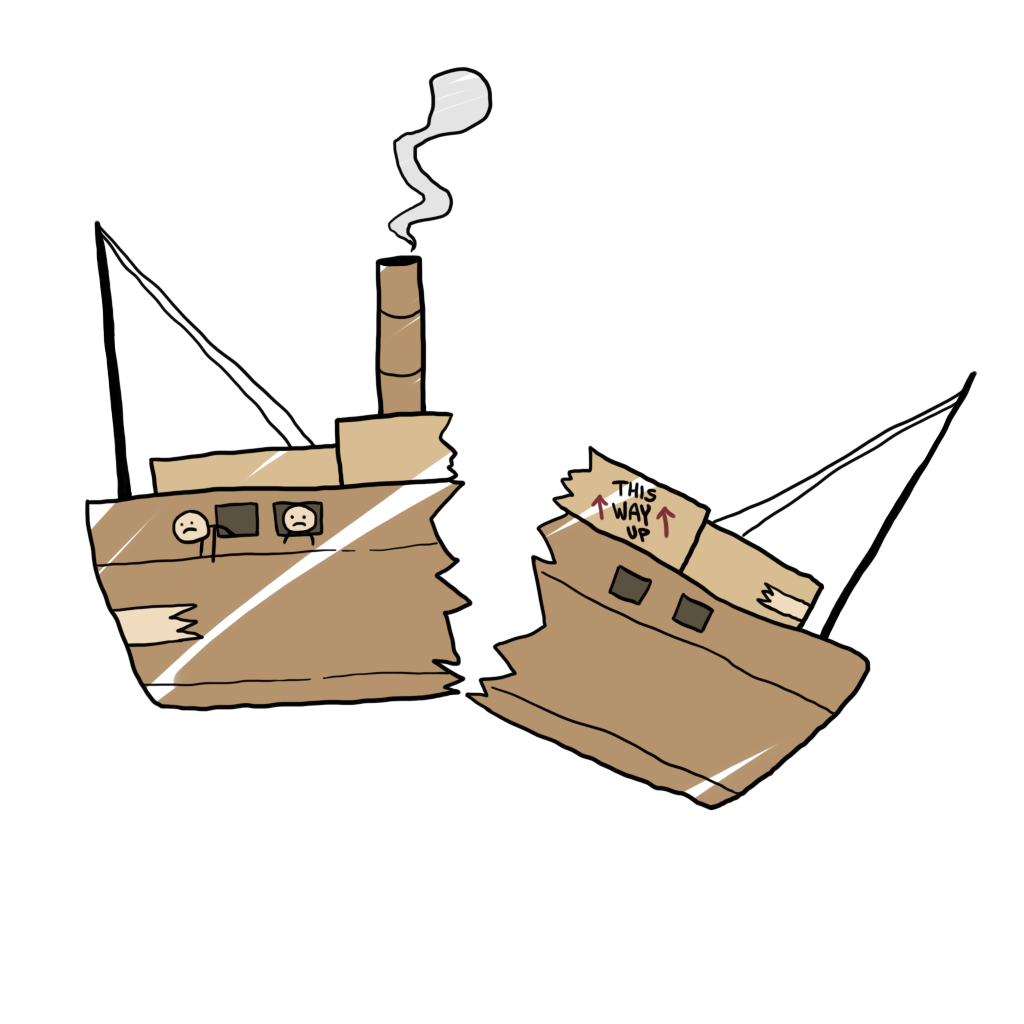
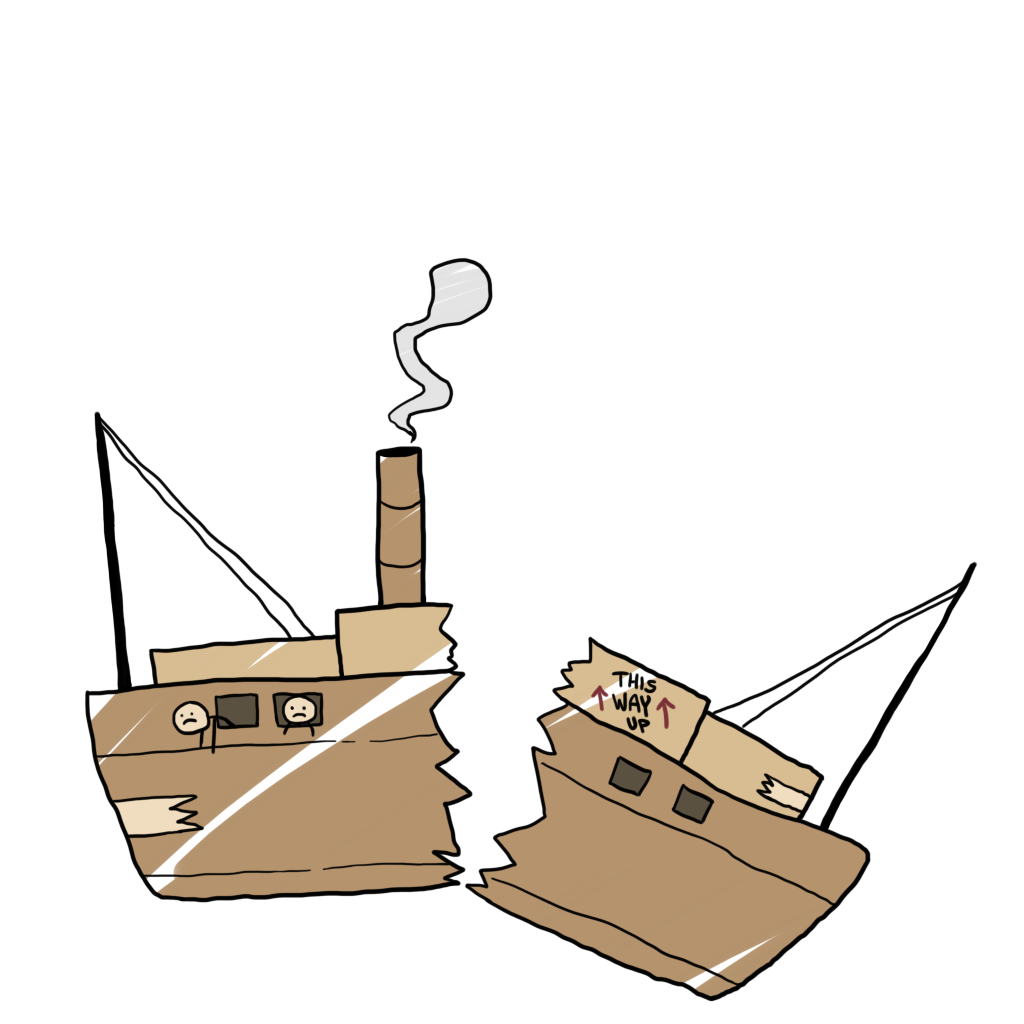
Half ship sprites replaced with lower position versions

diff --git a/Assets/Scripts/Boat Scripts/ClickerButton.cs b/Assets/Scripts/Boat Scripts/ClickerButton.cs
@@ -5,7 +5,7 @@ public class ClickerButton : MonoBehaviour
     public ScoreDisplay scoreDisplay;
     public WaterFillProgress waterFillProgress;
 
-    internal int WaterIncreaseAmmount = 1; // made this so the Clciker upgrade script can change the clickers value.
+    internal int WaterIncreaseAmount = 1; // made this so the Clciker upgrade script can change the clickers value.
 
     internal float ScoreIncrease = 0; // This is so the score can also be increased along with Wave hight.
 
@@ -27,6 +27,6 @@ public class ClickerButton : MonoBehaviour
         Debug.Log($"ClickerButton is calling UpdateScore on {scoreDisplay.gameObject.name}");
 
         scoreDisplay.UpdateScore(score + ScoreIncrease);
-        waterFillProgress.FillWater(WaterIncreaseAmmount);
+        waterFillProgress.FillWater(WaterIncreaseAmount);
     }
 }

diff --git a/Assets/Scripts/Clicker Upgrades/BaseClickerScript.cs b/Assets/Scripts/Clicker Upgrades/BaseClickerScript.cs
@@ -5,8 +5,8 @@ using UnityEngine.UI;
 
 public class BaseClickerScript : MonoBehaviour
 {
-    public ScoreDisplay scoreDisplay;
-    public ClickerButton clickerButton;
+    ScoreDisplay scoreDisplay;
+    ClickerButton clickerButton;
 
     public float Cost;
 
@@ -40,7 +40,7 @@ public class BaseClickerScript : MonoBehaviour
         else if (CanAfford())
         {
             scoreDisplay.UpdateScore(-Cost);
-            clickerButton.WaterIncreaseAmmount += ClickIncrease;
+            clickerButton.WaterIncreaseAmount += ClickIncrease;
             clickerButton.ScoreIncrease += ClickIncrease;
         }
     }
